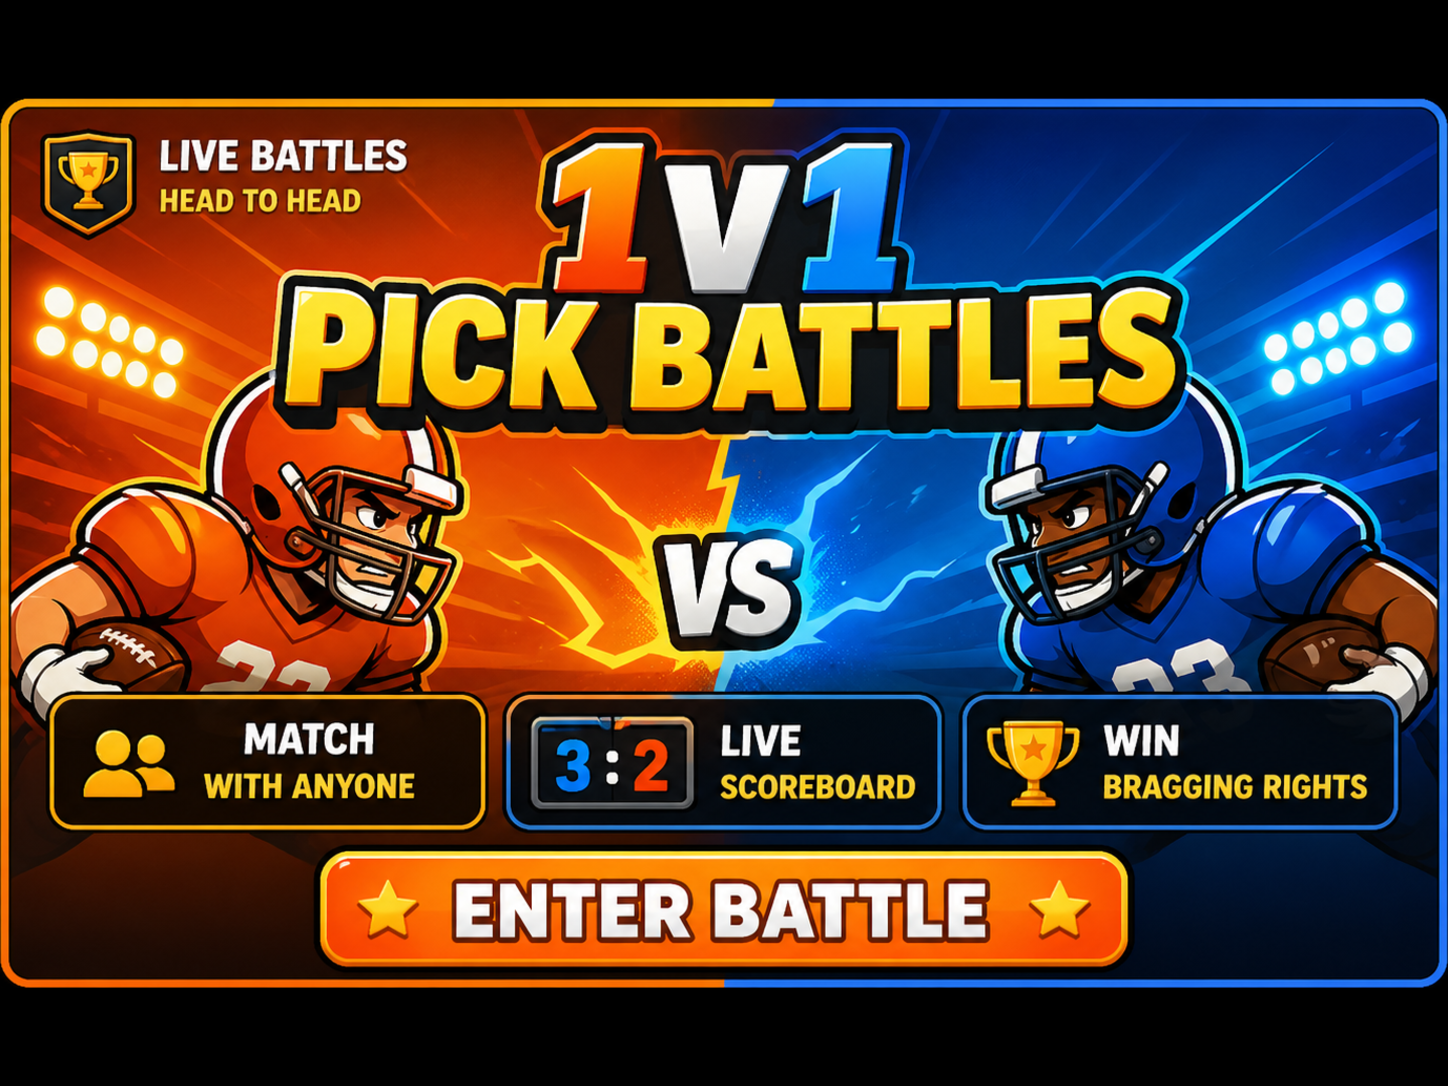
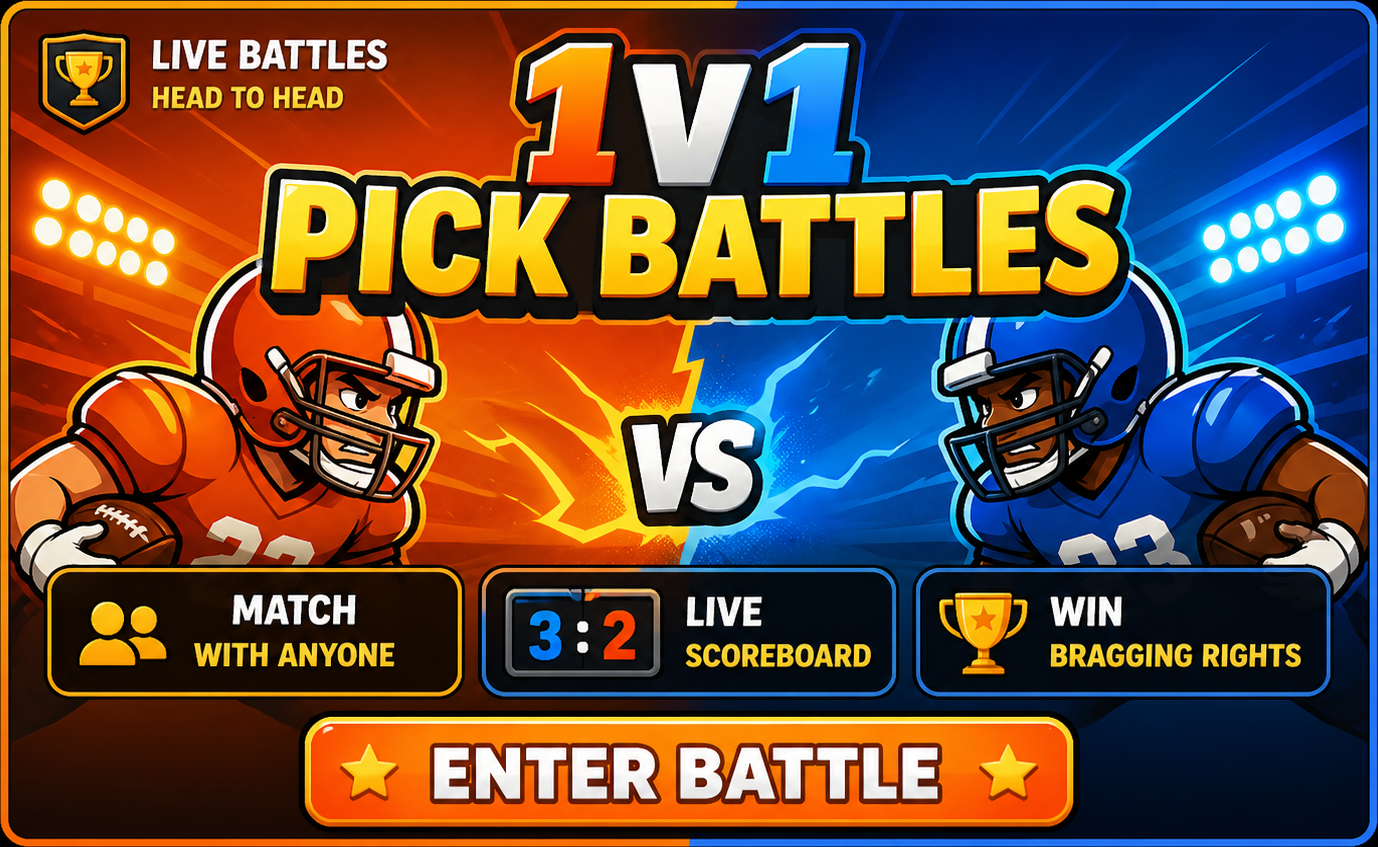
Adjust promo tile widths to match image aspect ratios
Updated CSS class names in various container components (e.g., DepositMatchContainer.js, FreePickContainer.js) to reflect precise aspect ratios of associated promo images, ensuring edge-to-edge fill at consistent carousel heights.

Replit-Commit-Author: Agent
Replit-Commit-Session-Id: db84c33f-4c00-44df-a0ef-39045d90cfad
Replit-Commit-Checkpoint-Type: full_checkpoint
Replit-Commit-Event-Id: 0c504f2c-17e5-47b1-9f6c-4304fa7696db
Replit-Commit-Screenshot-Url: https://storage.googleapis.com/screenshot-production-us-central1/a01a394d-2456-4999-a4ea-cf4251dbb624/db84c33f-4c00-44df-a0ef-39045d90cfad/YfETLfU

diff --git a/components/DepositMatchContainer.js b/components/DepositMatchContainer.js
@@ -36,15 +36,15 @@ export default function DepositMatchContainer() {
 
   return (
     <div
-      className="w-[187px] md:w-[240px] flex-shrink-0 rounded-2xl overflow-hidden cursor-pointer transition-transform duration-200 relative h-[140px] md:h-[180px] hover:scale-[1.02] active:scale-[0.98]"
+      className="w-[254px] md:w-[326px] flex-shrink-0 rounded-2xl overflow-hidden cursor-pointer transition-transform duration-200 relative h-[140px] md:h-[180px] hover:scale-[1.02] active:scale-[0.98]"
       style={{ backgroundColor: '#000' }}
       onClick={handleClick}
       role="button"
       aria-label={isReturning ? 'Claim reload deposit match' : 'Claim first deposit match'}
     >
-      {/* Container is 4:3 to match the source banner art (1448×1086).
-          object-cover gives a perfect edge-to-edge fill with no
-          letterboxing or cropping. */}
+      {/* Container width matches the trimmed banner aspect (1392×768 ≈ 1.81)
+          at the unified carousel height (140/180), so the bordered card
+          fills the tile edge-to-edge with no padding. */}
       <img
         src="/promos/reload-match.png"
         alt="Reload Match — 50% bonus, up to $50 free on your next deposit"

diff --git a/components/RushExplainerContainer.js b/components/RushExplainerContainer.js
@@ -16,15 +16,15 @@ export default function RushExplainerContainer() {
 
   return (
     <div
-      className="w-[187px] md:w-[240px] flex-shrink-0 rounded-2xl overflow-hidden cursor-pointer transition-transform duration-200 relative h-[140px] md:h-[180px] hover:scale-[1.02] active:scale-[0.98]"
+      className="w-[289px] md:w-[372px] flex-shrink-0 rounded-2xl overflow-hidden cursor-pointer transition-transform duration-200 relative h-[140px] md:h-[180px] hover:scale-[1.02] active:scale-[0.98]"
       style={{ backgroundColor: '#000' }}
       onClick={handleClick}
       role="button"
       aria-label="Try Rush — the fastest way to battle"
     >
-      {/* Container is 4:3 to match the source banner art (1448×1086).
-          object-cover gives a perfect edge-to-edge fill with no
-          letterboxing or cropping. */}
+      {/* Container width matches the trimmed banner aspect (1400×678 ≈ 2.07)
+          at the unified carousel height (140/180), so the bordered card
+          fills the tile edge-to-edge with no padding. */}
       <img
         src="/promos/rush-explainer.png"
         alt="Rush — pick 6 props from one live game, most right wins, least time breaks the tie"

diff --git a/components/PremiumDiscordContainer.js b/components/PremiumDiscordContainer.js
@@ -16,15 +16,15 @@ export default function PremiumDiscordContainer() {
 
   return (
     <div
-      className="w-[187px] md:w-[240px] flex-shrink-0 rounded-2xl overflow-hidden cursor-pointer transition-transform duration-200 relative h-[140px] md:h-[180px] hover:scale-[1.02] active:scale-[0.98]"
+      className="w-[214px] md:w-[275px] flex-shrink-0 rounded-2xl overflow-hidden cursor-pointer transition-transform duration-200 relative h-[140px] md:h-[180px] hover:scale-[1.02] active:scale-[0.98]"
       style={{ backgroundColor: '#000' }}
       onClick={handleClick}
       role="button"
       aria-label="Join the Premium Discord — VIP members only"
     >
-      {/* Container is 4:3 to match the source banner art (1448×1086).
-          object-cover gives a perfect edge-to-edge fill with no
-          letterboxing or cropping. */}
+      {/* Container width matches the trimmed banner aspect (1364×894 ≈ 1.53)
+          at the unified carousel height (140/180), so the bordered card
+          fills the tile edge-to-edge with no padding. */}
       <img
         src="/promos/premium-discord.png"
         alt="Premium Discord — VIP access, instant alerts, expert chat, daily plays"

diff --git a/components/TrendingBetContainer.js b/components/TrendingBetContainer.js
@@ -16,15 +16,15 @@ export default function TrendingBetContainer() {
 
   return (
     <div
-      className="w-[187px] md:w-[240px] flex-shrink-0 rounded-2xl overflow-hidden cursor-pointer transition-transform duration-200 relative h-[140px] md:h-[180px] hover:scale-[1.02] active:scale-[0.98]"
+      className="w-[234px] md:w-[302px] flex-shrink-0 rounded-2xl overflow-hidden cursor-pointer transition-transform duration-200 relative h-[140px] md:h-[180px] hover:scale-[1.02] active:scale-[0.98]"
       style={{ backgroundColor: '#000' }}
       onClick={handleClick}
       role="button"
       aria-label="Trending now — see what the public is betting on"
     >
-      {/* Container is 4:3 to match the source banner art (1448×1086).
-          object-cover gives a perfect edge-to-edge fill with no
-          letterboxing or cropping. */}
+      {/* Container width matches the trimmed banner aspect (1360×812 ≈ 1.68)
+          at the unified carousel height (140/180), so the bordered card
+          fills the tile edge-to-edge with no padding. */}
       <img
         src="/promos/trending-picks.png"
         alt="Trending now — 1.6k picks on PUR ML -133 with 78% public confidence"

diff --git a/components/TopCappersContainer.js b/components/TopCappersContainer.js
@@ -16,15 +16,15 @@ export default function TopCappersContainer() {
 
   return (
     <div
-      className="w-[187px] md:w-[240px] flex-shrink-0 rounded-2xl overflow-hidden cursor-pointer transition-transform duration-200 relative h-[140px] md:h-[180px] hover:scale-[1.02] active:scale-[0.98]"
+      className="w-[230px] md:w-[295px] flex-shrink-0 rounded-2xl overflow-hidden cursor-pointer transition-transform duration-200 relative h-[140px] md:h-[180px] hover:scale-[1.02] active:scale-[0.98]"
       style={{ backgroundColor: '#000' }}
       onClick={handleClick}
       role="button"
       aria-label="View this week's top cappers leaderboard"
     >
-      {/* Container is 4:3 to match the source banner art (1448×1086).
-          object-cover gives a perfect edge-to-edge fill with no
-          letterboxing or cropping. */}
+      {/* Container width matches the trimmed banner aspect (1352×824 ≈ 1.64)
+          at the unified carousel height (140/180), so the bordered card
+          fills the tile edge-to-edge with no padding. */}
       <img
         src="/promos/top-cappers.png"
         alt="Top Cappers this week — live leaderboard, updated in real time"

diff --git a/components/FreePickContainer.js b/components/FreePickContainer.js
@@ -15,15 +15,15 @@ export default function FreePickContainer() {
 
   return (
     <div
-      className="w-[187px] md:w-[240px] flex-shrink-0 rounded-2xl overflow-hidden cursor-pointer transition-transform duration-200 relative h-[140px] md:h-[180px] hover:scale-[1.02] active:scale-[0.98]"
+      className="w-[181px] md:w-[232px] flex-shrink-0 rounded-2xl overflow-hidden cursor-pointer transition-transform duration-200 relative h-[140px] md:h-[180px] hover:scale-[1.02] active:scale-[0.98]"
       style={{ backgroundColor: '#000' }}
       onClick={handleClick}
       role="button"
       aria-label="Claim today's free pick of the day"
     >
-      {/* Container is 4:3 to match the source banner art (1448×1086).
-          object-cover gives a perfect edge-to-edge fill with no
-          letterboxing or cropping. */}
+      {/* Container width matches the trimmed banner aspect (1257×974 ≈ 1.29)
+          at the unified carousel height (140/180), so the bordered card
+          fills the tile edge-to-edge with no padding. */}
       <img
         src="/promos/free-pick.png"
         alt="Free Pick of the Day — limited, sharp action, high confidence"

diff --git a/components/PickBattlesContainer.js b/components/PickBattlesContainer.js
@@ -15,15 +15,15 @@ export default function PickBattlesContainer() {
 
   return (
     <div
-      className="w-[187px] md:w-[240px] flex-shrink-0 rounded-2xl overflow-hidden cursor-pointer transition-transform duration-200 relative h-[140px] md:h-[180px] hover:scale-[1.02] active:scale-[0.98]"
+      className="w-[228px] md:w-[293px] flex-shrink-0 rounded-2xl overflow-hidden cursor-pointer transition-transform duration-200 relative h-[140px] md:h-[180px] hover:scale-[1.02] active:scale-[0.98]"
       style={{ backgroundColor: '#000' }}
       onClick={handleClick}
       role="button"
       aria-label="Enter a 1v1 Pick Battle"
     >
-      {/* Container is 4:3 to match the source banner art (1448×1086).
-          object-cover gives a perfect edge-to-edge fill with no
-          letterboxing or cropping. */}
+      {/* Container width matches the trimmed banner aspect (1378×847 ≈ 1.63)
+          at the unified carousel height (140/180), so the bordered card
+          fills the tile edge-to-edge with no padding. */}
       <img
         src="/promos/pick-battles.png"
         alt="1v1 Pick Battles — fast, competitive, head-to-head matchups"
